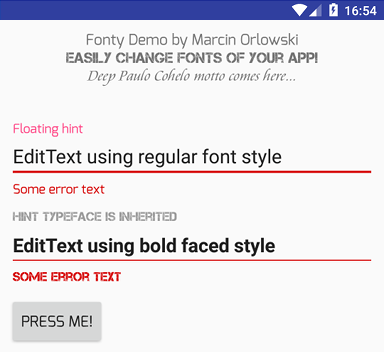
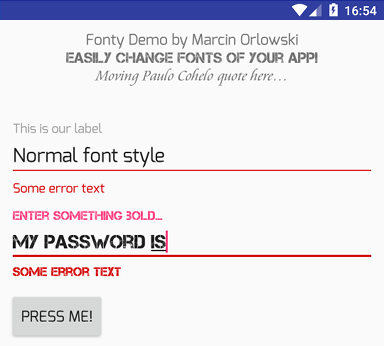
Fixed styling of `TextInputLayout`'s `EditText` widget

diff --git a/lib/src/main/java/com/marcinorlowski/fonty/Fonty.java b/lib/src/main/java/com/marcinorlowski/fonty/Fonty.java
@@ -384,6 +384,8 @@ public class Fonty {
 					((TextInputLayout)view).setTypeface(
 							Utils.substituteTypeface(oldTf, fallback, view.getClass().getName(), view.getId())
 					);
+
+					et.setTypeface(Utils.substituteTypeface(oldTf, fallback, et.getClass().getName(), et.getId()));
 				}
 
 			} else if (ViewGroup.class.isInstance(view)) {

diff --git a/CHANGES.md b/CHANGES.md
@@ -7,6 +7,7 @@ Changelog
    - Improved public methods argument validation
    - Added italics support (`italicsTypeface()`)
    - Added typeface fallback feature. See `typefaceFallback()`
+   - Fixed styling of `TextInputLayout`'s `EditText` widget
 
  * v1.2.0 (2017-04-23)
    - [#2] Added support for `TextInputLayout`
